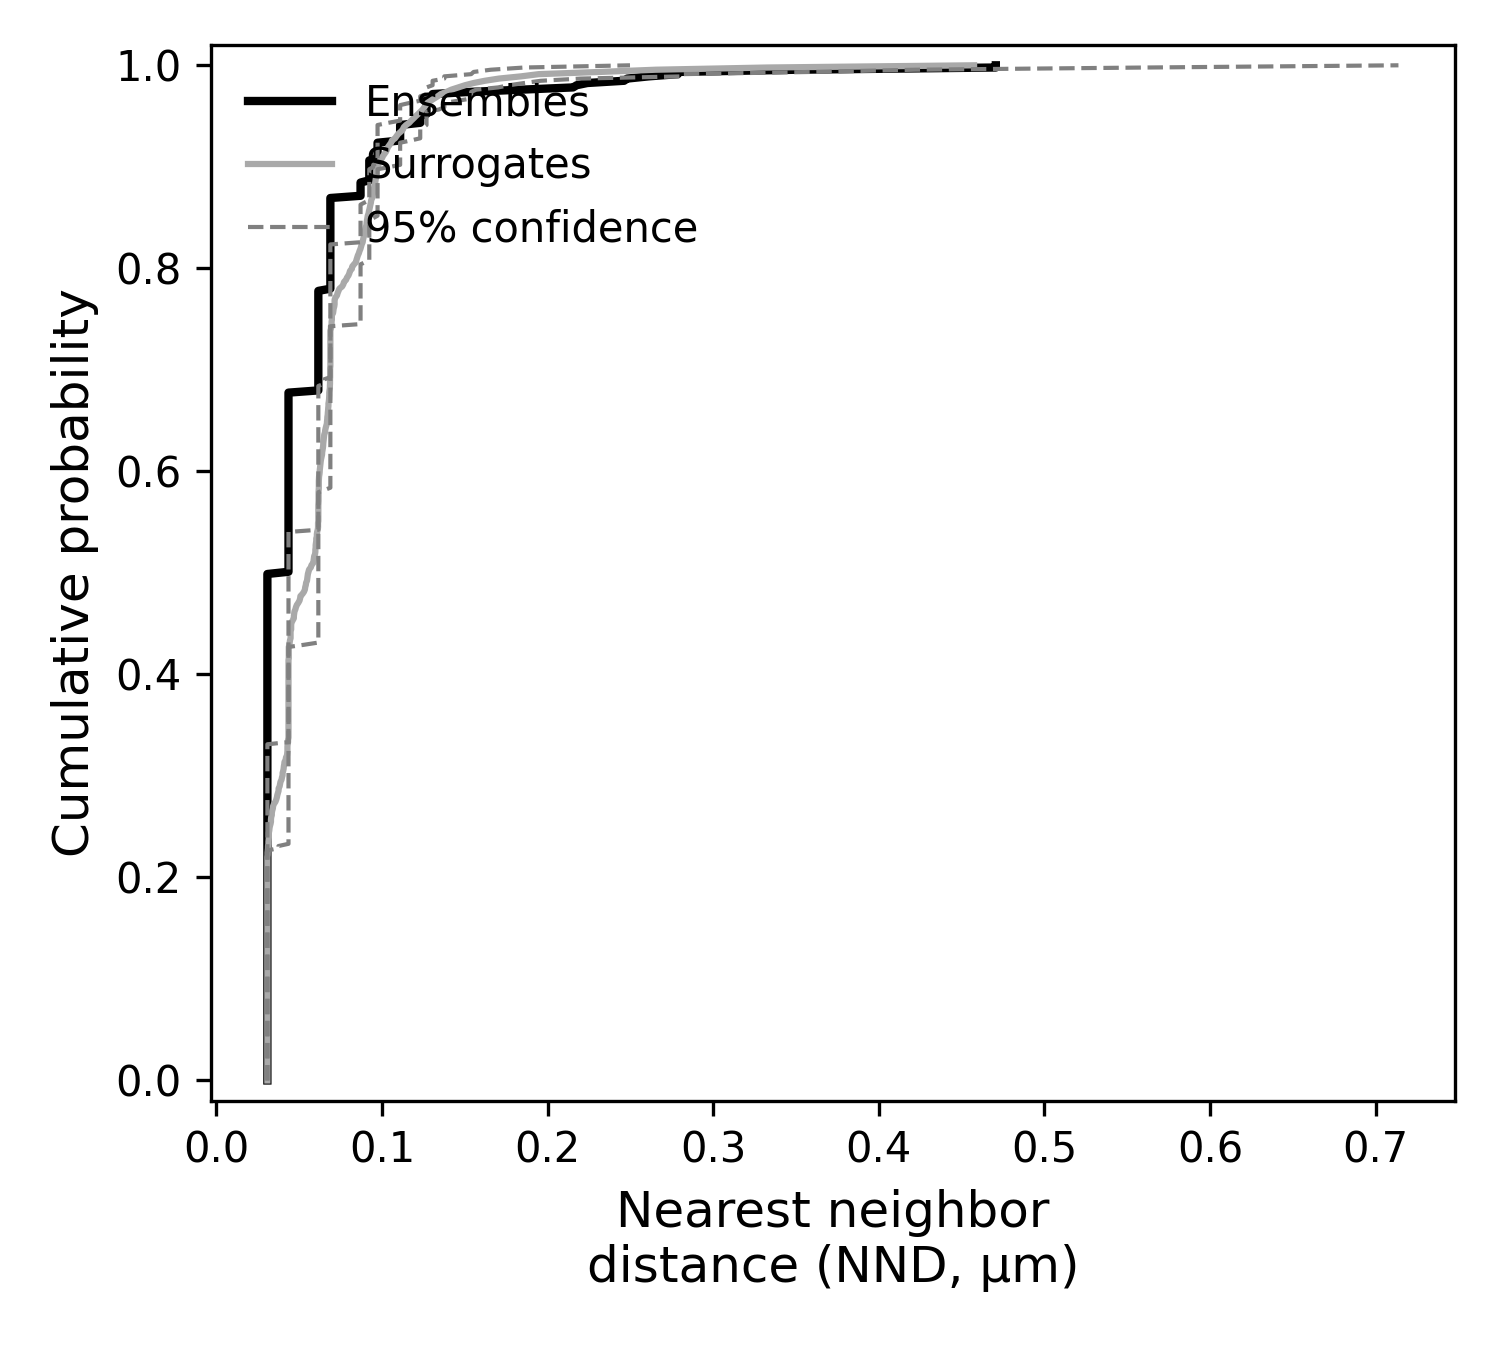
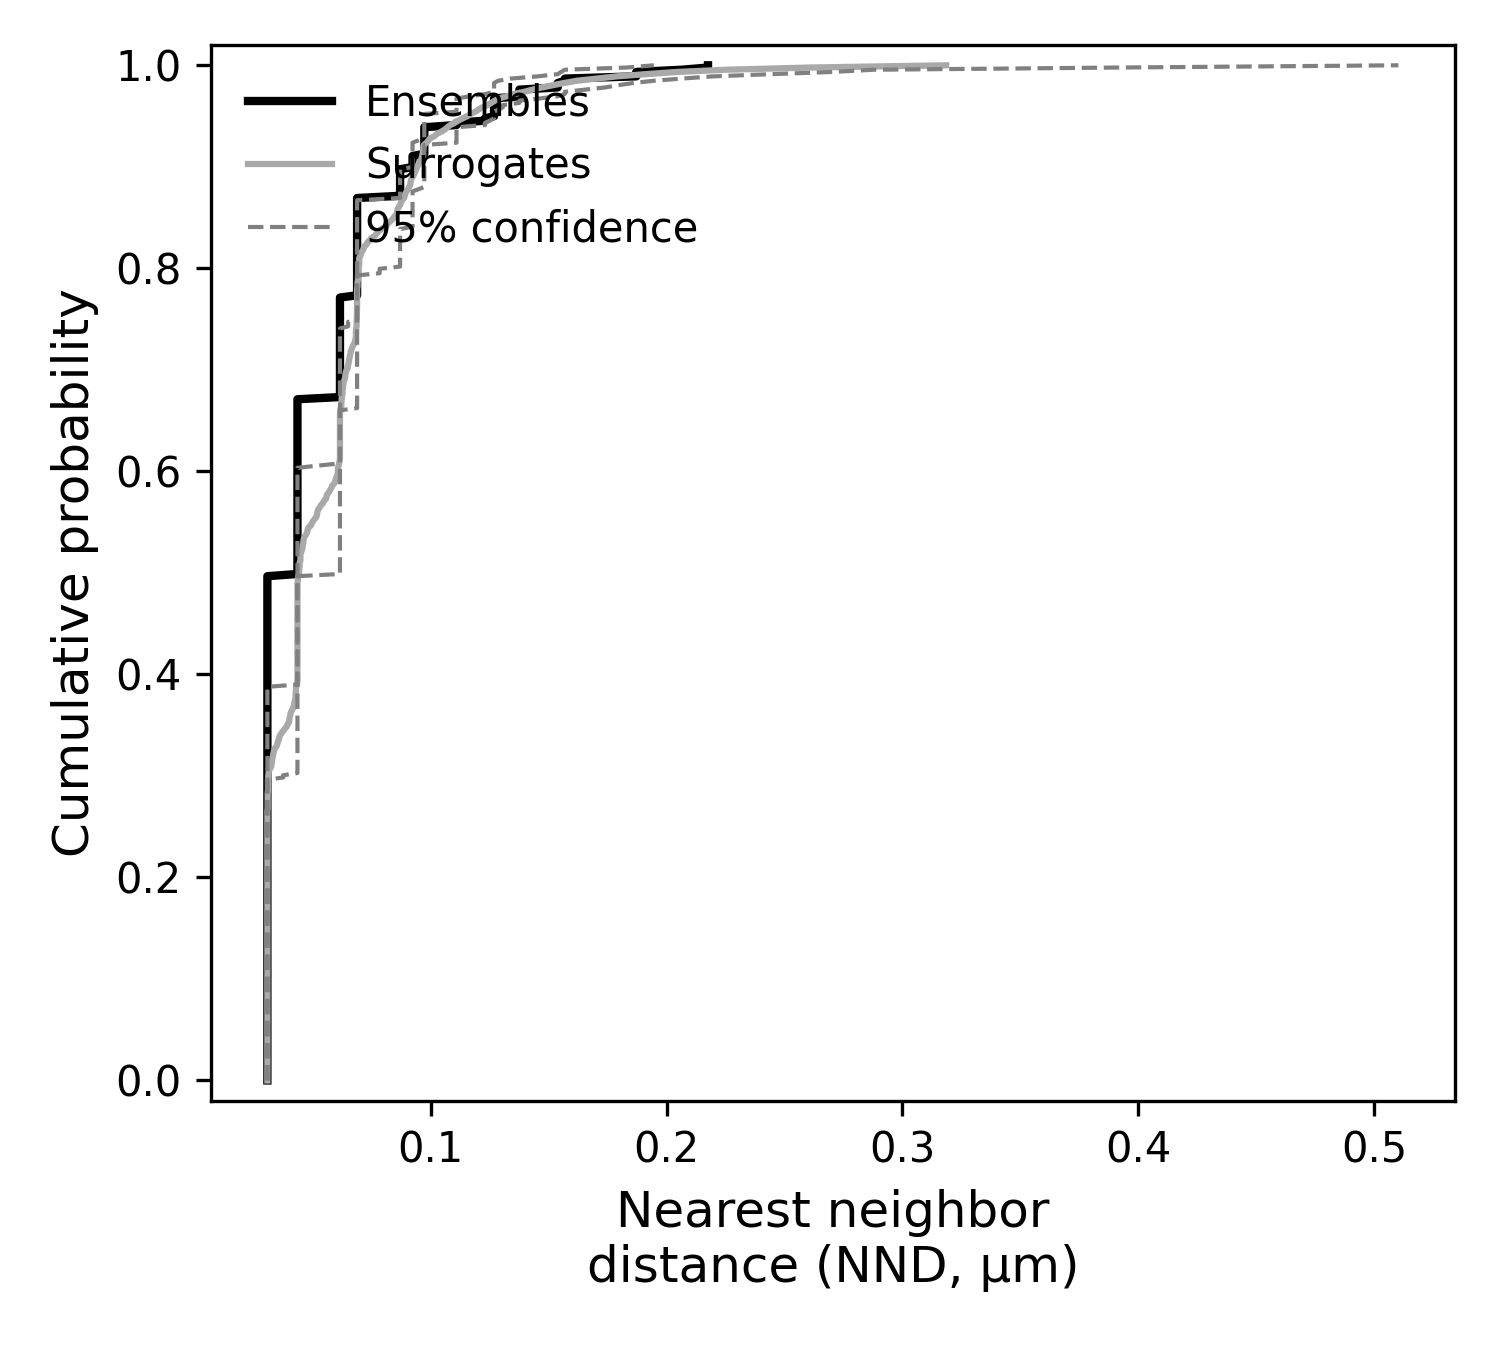
second random simulation

diff --git a/main.py b/main.py
@@ -16,7 +16,7 @@ from src.analysis.distance import plot_spatial_metrics_with_surrogates
 @app.command()
 def main(
 ): 
-    dir = "output/simulation/260423_215418_L4n40_g1.1"
+    dir = "output/simulation/260423_223417_L4n40_g1.1"
     with open(f"{dir}/metadata.json") as f:
         metadata = json.load(f)
     
